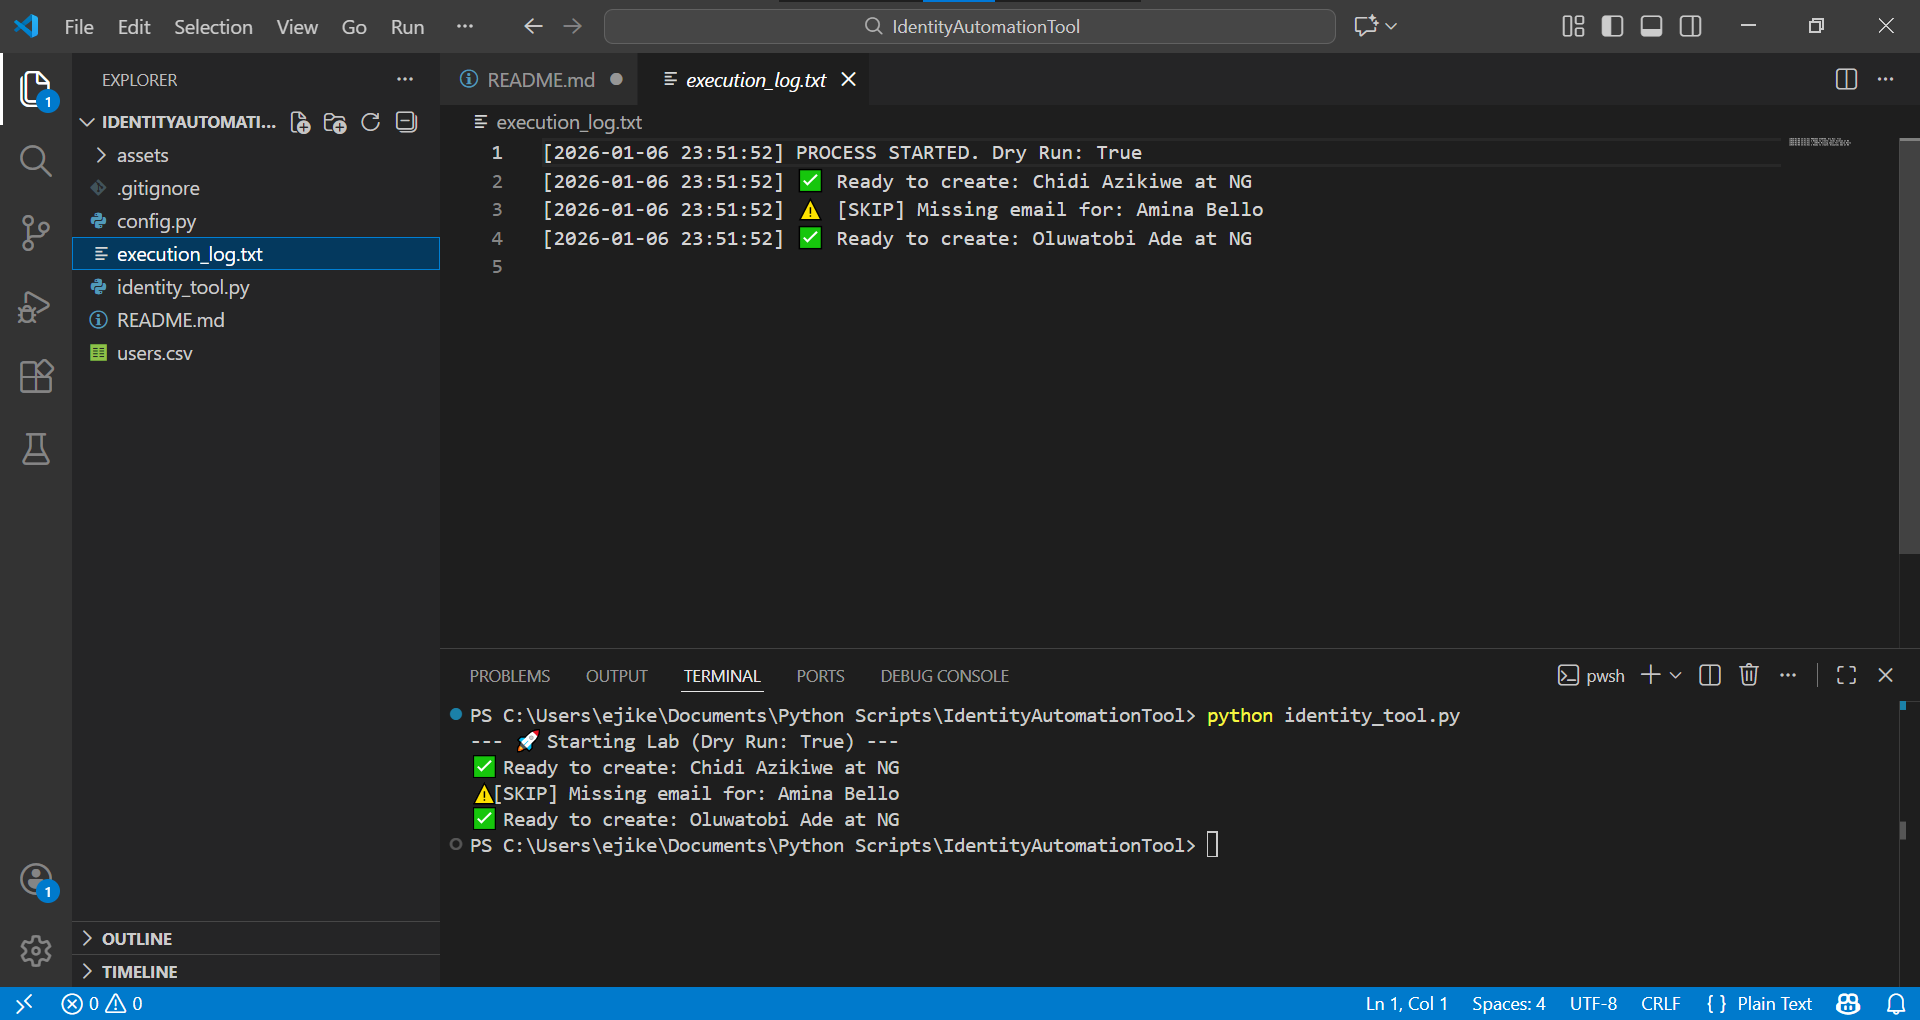
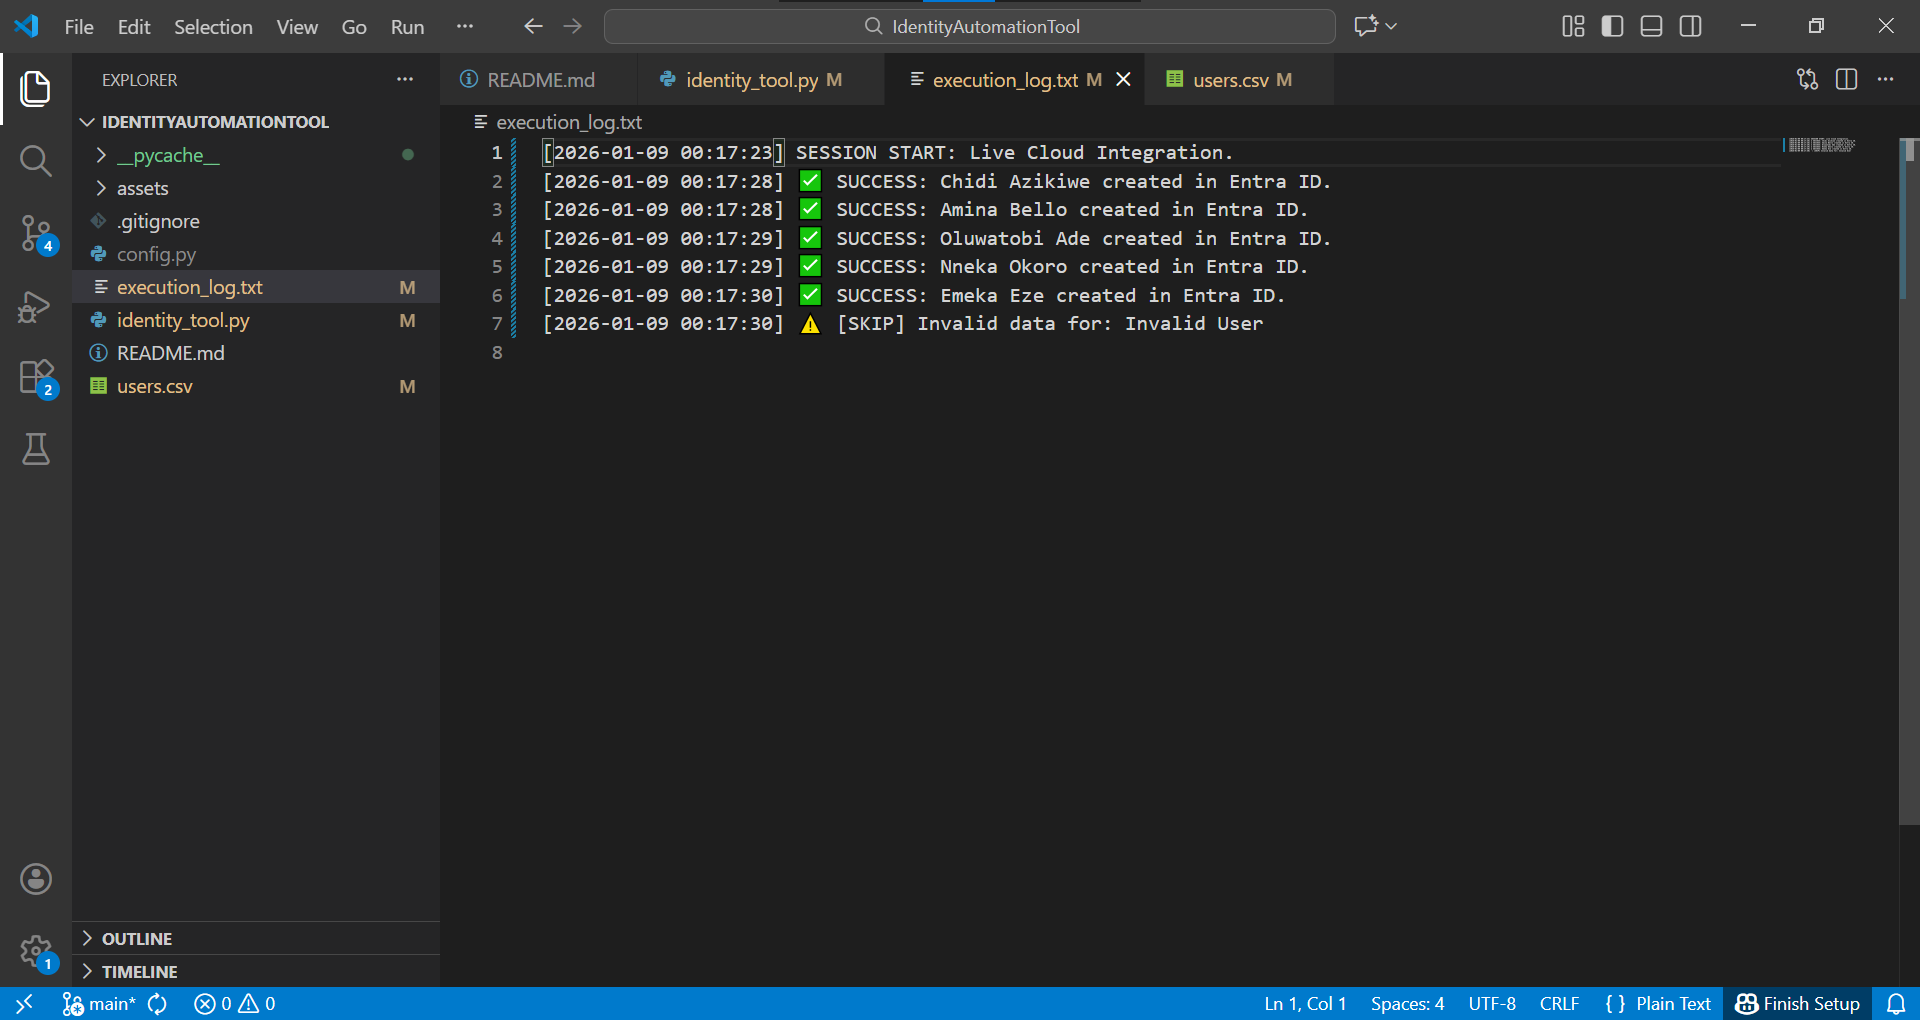
Finalize professional documentation: Completed Identity Automation & Zero Trust Proof of Concept

diff --git a/identity_tool.py b/identity_tool.py
@@ -1,49 +1,80 @@
 import csv
+import asyncio
+import config
 from datetime import datetime
+from azure.identity import ClientSecretCredential
+from msgraph import GraphServiceClient
+from msgraph.generated.models.user import User
+from msgraph.generated.models.password_profile import PasswordProfile
 
-# --- SETTINGS ---
-# DRY_RUN = True means we only simulate the process. 
-# Set to False only when ready to push changes to the live cloud.
-DRY_RUN = True  
+# --- AUTHENTICATION ---
+# Using ClientSecretCredential for Application permissions
+credential = ClientSecretCredential(
+    tenant_id=config.TENANT_ID,
+    client_id=config.CLIENT_ID,
+    client_secret=config.CLIENT_SECRET
+)
+client = GraphServiceClient(credential)
 
 def log_event(message):
-    """
-    Captures a message and saves it to a local text file with a timestamp.
-    'a' mode ensures we append to the file rather than overwriting it.
-    """
+    """Saves progress to a text file with a timestamp."""
     timestamp = datetime.now().strftime("%Y-%m-%d %H:%M:%S")
     with open("execution_log.txt", "a", encoding="utf-8") as f:
         f.write(f"[{timestamp}] {message}\n")
 
-def process_users(filename):
-    """Reads user data from CSV and performs validation logic."""
-    print(f"--- 🚀 Starting Lab (Dry Run: {DRY_RUN}) ---")
-    log_event(f"PROCESS STARTED. Dry Run: {DRY_RUN}")
+async def create_entra_user(display_name, nickname, upn, location, password):
+    """Translates Python data into a Microsoft Graph User object."""
+    new_user = User(
+        display_name=display_name,
+        mail_nickname=nickname,
+        user_principal_name=upn,
+        usage_location=location,
+        account_enabled=True,
+        password_profile=PasswordProfile(
+            force_change_password_next_sign_in=True,
+            password=password
+        )
+    )
+    # This sends the 'POST' request to create the user in your tenant
+    await client.users.post(new_user)
+
+async def main():
+    print("--- 🚀 Starting LIVE Identity Automation ---")
+    log_event("SESSION START: Live Cloud Integration.")
     
     try:
-        # Open the CSV file for reading
-        with open(filename, mode='r', encoding='utf-8') as file:
+        with open('users.csv', mode='r', encoding='utf-8') as file:
             reader = csv.DictReader(file)
-            
             for row in reader:
-                # Logic Gate: Check if the required email field is populated
+                # Skip invalid data (Our 'Invalid User' test)
                 if not row['userPrincipalName']:
-                    msg = f"⚠ [SKIP] Missing email for: {row['displayName']}"
+                    msg = f"⚠ [SKIP] Invalid data for: {row['displayName']}"
                     print(msg)
-                    log_event(msg) # Log the error for later audit
-                    continue 
+                    log_event(msg)
+                    continue
                 
-                # If validation passes, prepare for creation
-                msg = f"✅ Ready to create: {row['displayName']} at {row['usageLocation']}"
-                print(msg)
-                log_event(msg)
+                # Execute Cloud Creation
+                try:
+                    print(f"🔗 Connecting to Cloud for: {row['displayName']}...")
+                    await create_entra_user(
+                        row['displayName'], 
+                        row['mailNickname'], 
+                        row['userPrincipalName'], 
+                        row['usageLocation'], 
+                        row['password']
+                    )
+                    success_msg = f"✅ SUCCESS: {row['displayName']} created in Entra ID."
+                    print(success_msg)
+                    log_event(success_msg)
+                except Exception as e:
+                    error_msg = f"❌ FAILED to create {row['displayName']}: {e}"
+                    print(error_msg)
+                    log_event(error_msg)
 
     except FileNotFoundError:
-        error_msg = f"❌ Error: {filename} not found."
-        print(error_msg)
-        log_event(error_msg)
+        print("❌ Error: users.csv not found.")
+        log_event("CRITICAL ERROR: users.csv missing.")
 
-# This block checks if the script is being run directly by the user.
-# If it is, it triggers the 'process_users' function.
 if __name__ == "__main__":
-    process_users('users.csv')
+    # asyncio allows the script to stay "awake" and ready to handle multiple tasks at once
+    asyncio.run(main())
